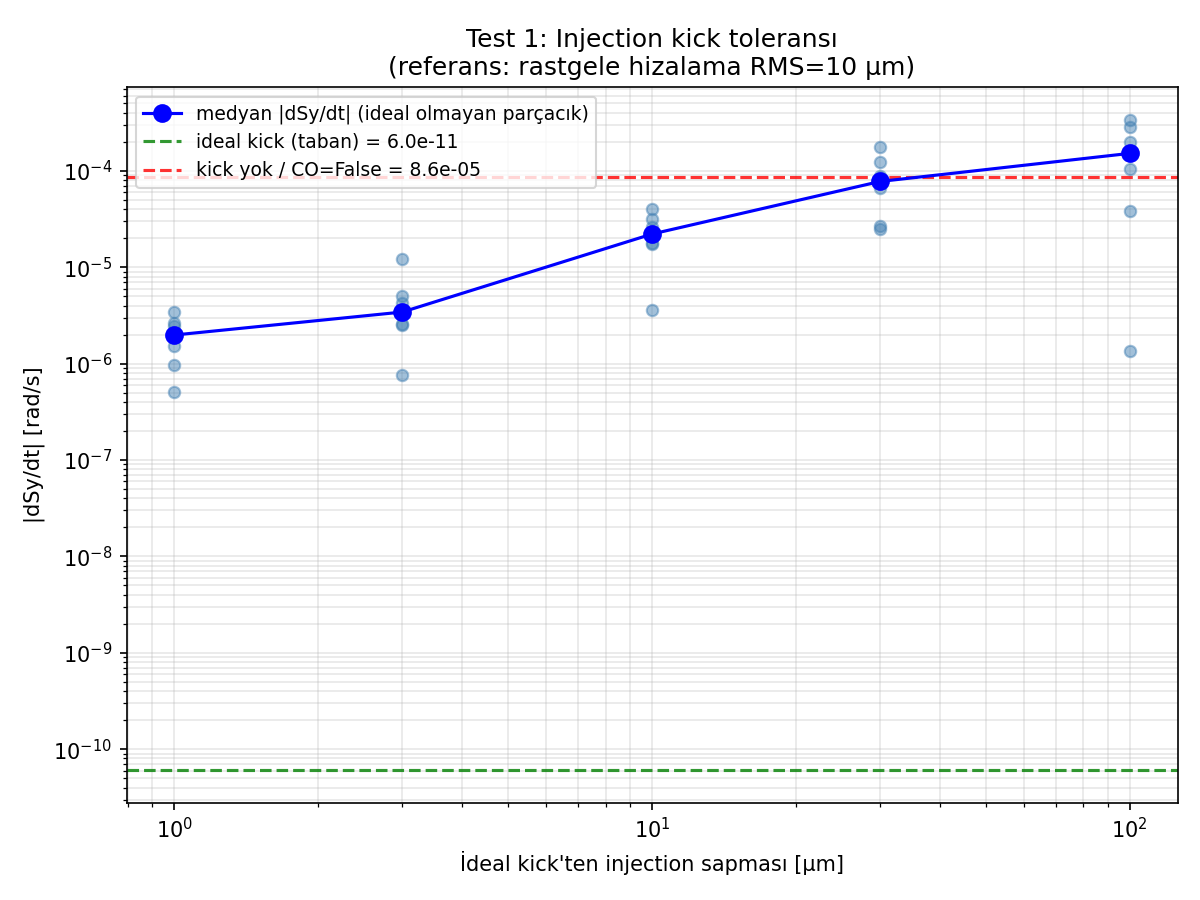
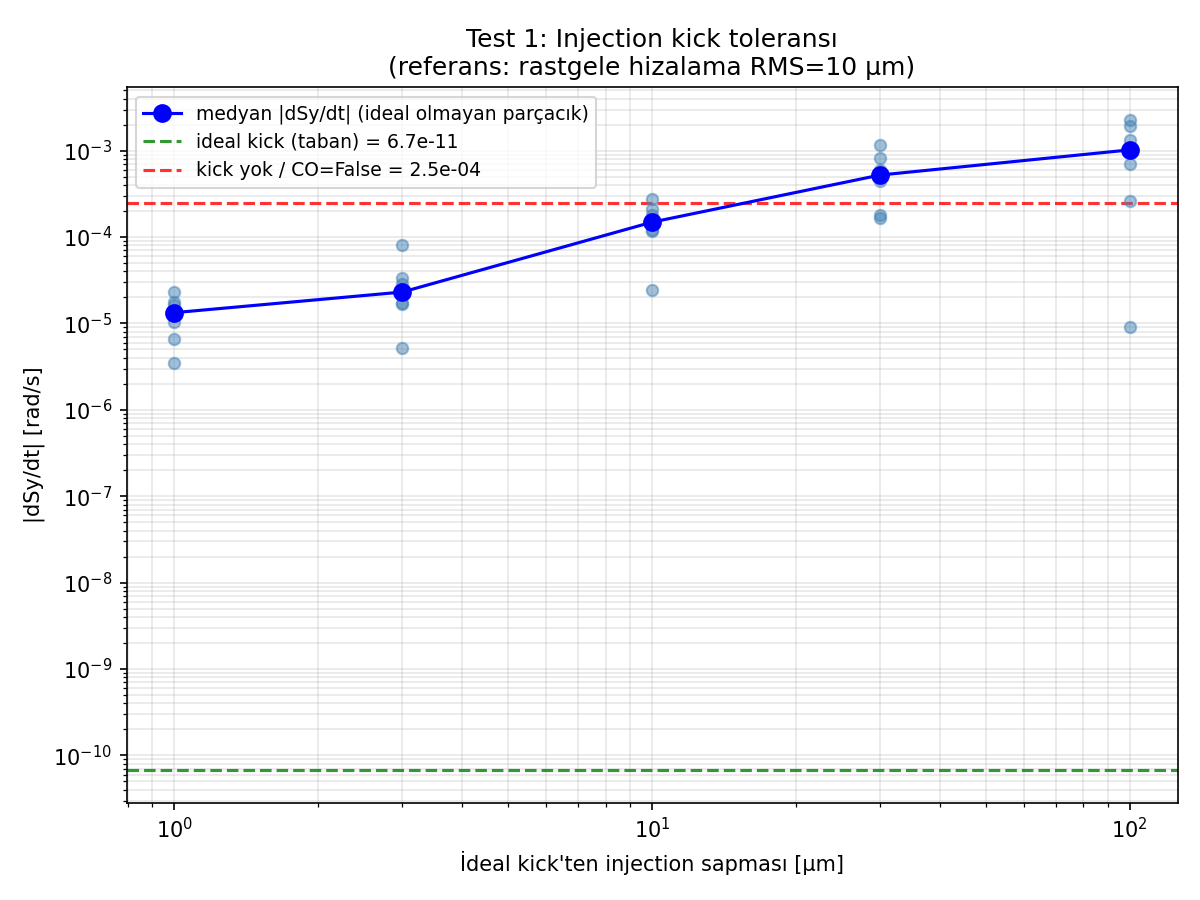
test: Test 5 betimi (ideal olmayan parçacıkta iptal) + Test 1 üniform 0.2 grafiği
test_nonideal_cancellation.py: COD'den δy sapan parçacık için (CW normal) −
(CCW flip) farkı betatron kirlenmesini de iptal ediyor mu test eder (henüz
koşulmadı, arka plan yeniden-koşmalar bitince koşulacak).

test_kick_correction.png: üniform 0.2 lattice ile yeniden üretildi.

https://claude.ai/code/session_01Jx2uDe7AgLmoFys37rEJtg

diff --git a/test_nonideal_cancellation.py b/test_nonideal_cancellation.py
@@ -1,0 +1,201 @@
+#!/usr/bin/env python3
+"""test_nonideal_cancellation.py — Test 5: İdeal olmayan parçacık için
+CW/CCW+flip iptali hâlâ çalışıyor mu?
+
+Soru:
+  (CW normal) − (CCW flip) farkı, parçacık kapalı yörünge ÜZERİNDEYKEN sahte
+  EDM'yi 1e-16'ya iptal ediyordu. Peki parçacık COD'nin üzerinde DEĞİLSE
+  (injection hatası δy → betatron salınımı, tek tek sahte EDM ~1e-5..1e-6)
+  bu fark hâlâ iptal ediyor mu, yoksa betatron kirlenmesi farkta kalıyor mu?
+
+  Bu, Omarov'un 1e-9 tabanının "mükemmel oturtma" gerektirip gerektirmediğini
+  ve yöntemin gerçekçi parçacıkta ne kadar sağlam olduğunu söyler.
+
+Fizik:
+  (CW normal) ve (CCW flip) her fiziksel noktada AYNI kick'i görür → kapalı
+  yörünge konumu aynı, dinamik birbirinin aynası. Eğer betatron-kaynaklı sahte
+  EDM de bu simetri altında AYNI işaretliyse, fark onu da iptal eder (yöntem
+  sağlam). Zıt işaretliyse fark onu iki katına çıkarır (yöntem oturtmaya bağlı).
+
+Yöntem (üniform 0.2 lattice):
+  1. CW normal ve CCW flip için kapalı yörünge bulunur (konumları çakışır).
+  2. δy ∈ {0, 0.5, 1, 2, 5, 10} μm: her iki beam KENDİ COD'sinden δy kadar
+     sapacak şekilde fırlatılır (aynı betatron genliği).
+  3. Tek tek sahte EDM'ler ve FARK ölçülür.
+  4. Fark δy ile büyüyor mu (iptal bozuluyor) yoksa küçük mü kalıyor (sağlam)?
+
+Çıktı:
+  test_nonideal_cancellation.png
+  Terminal tablo
+"""
+
+import json
+import os
+import sys
+import time
+
+import matplotlib
+matplotlib.use("Agg")
+import matplotlib.pyplot as plt
+import multiprocessing as mp
+import numpy as np
+
+os.chdir(os.path.dirname(os.path.abspath(__file__)))
+sys.path.insert(0, os.path.dirname(os.path.abspath(__file__)))
+
+# ── Parametreler ─────────────────────────────────────────────────────────────
+REF_SEED     = 7
+A_MISALIGN   = 1e-5
+T2           = 5e-4
+CO_TURNS     = 24
+CO_ITER      = 2
+RETURN_STEPS = 3000
+DELTA_UM     = [0.0, 0.5, 1.0, 2.0, 5.0, 10.0]   # COD'den injection sapması [μm]
+
+
+def _suppress_stdout():
+    fd = os.dup(1); null = os.open(os.devnull, os.O_WRONLY)
+    os.dup2(null, 1); os.close(null); return fd
+
+
+def _restore_stdout(fd):
+    os.dup2(fd, 1); os.close(fd)
+
+
+def _worker(task):
+    """Verilen yön/flip/fırlatma için sahte EDM ölç (CO ARAMAZ — sabit launch).
+
+    Görev: (label, direction, flip, yv, ypv, dy_list, t2, rsteps)
+    Dönüş: (label, slope)
+    """
+    label, direction, flip, yv, ypv, dy_list, t2, rsteps = task
+
+    import os, sys, json, numpy as np
+    os.chdir(os.path.dirname(os.path.abspath(__file__)))
+    sys.path.insert(0, os.path.dirname(os.path.abspath(__file__)))
+    from false_edm_mode_scan import setup_fields, _make_state
+    from integrator import integrate_particle
+
+    with open("params.json") as fh:
+        config = json.load(fh)
+    fields, _, beta0, R0, p_mag, _ = setup_fields(config)
+    if flip:
+        fields.quadG1 = -fields.quadG1
+        fields.quadG0 = -fields.quadG0
+    dt = float(config.get("dt", 1e-11))
+    dy = np.asarray(dy_list, dtype=float)
+
+    y_launch = _make_state([0.0, float(yv), 0.0, float(ypv)],
+                           p_mag, float(direction), [0.0, 0.0, float(direction)])
+    saved = _suppress_stdout()
+    try:
+        fields.poincare_quad_index = 0.0
+        _, poin, poin_t = integrate_particle(
+            y_launch, 0.0, t2, dt, fields=fields, return_steps=rsteps, quad_dy=dy)
+    finally:
+        _restore_stdout(saved)
+    slope = float(np.polyfit(np.asarray(poin_t, float),
+                             np.asarray(poin[:, 7], float), 1)[0])
+    return label, slope
+
+
+def _find_co(direction, flip, dy_ref, config):
+    """Verilen yön/flip için kapalı yörünge fırlatma noktası."""
+    from false_edm_mode_scan import setup_fields, find_closed_orbit, C
+    fields, _, beta0, R0, p_mag, _ = setup_fields(config)
+    if flip:
+        fields.quadG1 = -fields.quadG1
+        fields.quadG0 = -fields.quadG0
+    dt    = float(config.get("dt", 1e-11))
+    circ  = (2*np.pi*R0 + 4*fields.nFODO*fields.driftLen
+             + 2*fields.nFODO*fields.quadLen)
+    T_rev = circ / (beta0 * C)
+    saved = _suppress_stdout()
+    try:
+        v_co, _ = find_closed_orbit(fields, p_mag, float(direction), dy_ref, dt,
+                                     T_rev, n_turns=CO_TURNS, n_iter=CO_ITER)
+    finally:
+        _restore_stdout(saved)
+    return float(v_co[1]), float(v_co[3])
+
+
+def main():
+    t0 = time.time()
+    with open("params.json") as fh:
+        config = json.load(fh)
+    from false_edm_mode_scan import setup_fields
+    fields, *_ = setup_fields(config)
+    n_q = 2 * int(fields.nFODO)
+    direction = fields.direction
+
+    rng = np.random.default_rng(REF_SEED)
+    dy_ref = rng.standard_normal(n_q) * A_MISALIGN
+
+    print(f"Lattice: üniform {fields.quadG1} T/m")
+    print("CW normal ve CCW flip kapalı yörüngeleri bulunuyor...")
+    yc_cwn,  ypc_cwn  = _find_co(direction,  False, dy_ref, config)
+    yc_ccwf, ypc_ccwf = _find_co(-direction, True,  dy_ref, config)
+    print(f"  CW normal : y_co={yc_cwn*1e6:+.3f} μm, y'={ypc_cwn*1e6:+.3f} μrad")
+    print(f"  CCW flip  : y_co={yc_ccwf*1e6:+.3f} μm, y'={ypc_ccwf*1e6:+.3f} μrad")
+
+    # Görevler: her δy için her iki beam, KENDİ COD'sinden δy sapma
+    tasks = []
+    for d_um in DELTA_UM:
+        d = d_um * 1e-6
+        tasks.append((f"cwn_{d_um}",  direction,  False,
+                      yc_cwn + d,  ypc_cwn,  dy_ref.tolist(), T2, RETURN_STEPS))
+        tasks.append((f"ccwf_{d_um}", -direction, True,
+                      yc_ccwf + d, ypc_ccwf, dy_ref.tolist(), T2, RETURN_STEPS))
+
+    nw = min(mp.cpu_count(), len(tasks))
+    print(f"\n{len(tasks)} simülasyon ({nw} işçi)...")
+    ctx = mp.get_context("spawn")
+    with ctx.Pool(processes=nw) as pool:
+        res = dict(pool.map(_worker, tasks))
+
+    # Sonuçlar
+    print(f"\n{'─'*78}")
+    print("İdeal olmayan parçacık: COD'den δy sapma → tek tek sahte EDM ve FARK")
+    print(f"{'─'*78}")
+    hdr = (f"{'δy [μm]':>9}  {'CW normal':>14}  {'CCW flip':>14}  "
+           f"{'FARK (CW−CCWf)':>16}  {'iptal':>9}")
+    print(hdr); print('─'*len(hdr))
+    cwn_arr, ccwf_arr, diff_arr = [], [], []
+    for d_um in DELTA_UM:
+        scwn  = res[f"cwn_{d_um}"]
+        sccwf = res[f"ccwf_{d_um}"]
+        diff  = scwn - sccwf
+        ratio = abs(scwn / diff) if diff != 0 else float('inf')
+        cwn_arr.append(scwn); ccwf_arr.append(sccwf); diff_arr.append(diff)
+        print(f"{d_um:>9.1f}  {scwn:>14.3e}  {sccwf:>14.3e}  {diff:>16.3e}  "
+              f"{ratio:>8.0f}×")
+
+    elapsed = time.time() - t0
+    print(f"\nToplam süre: {elapsed:.1f} s")
+    print("\nYORUM:")
+    print("  FARK küçük kalıyorsa → simetri betatron'u da iptal eder (yöntem sağlam).")
+    print("  FARK tek tek değerlerle birlikte büyüyorsa → iptal oturtmaya bağlı.")
+
+    # Figür
+    fig, ax = plt.subplots(figsize=(8.5, 6))
+    dd = np.array(DELTA_UM)
+    ax.semilogy(dd, np.abs(cwn_arr),  'o-', color='tab:blue',
+                label='CW normal (tek tek)', markersize=7)
+    ax.semilogy(dd, np.abs(ccwf_arr), 's-', color='tab:orange',
+                label='CCW flip (tek tek)', markersize=7)
+    ax.semilogy(dd, np.abs(diff_arr), 'D-', color='tab:green', linewidth=2,
+                label='FARK (CW − CCW flip)', markersize=8)
+    ax.set_xlabel("COD'den injection sapması δy [μm]")
+    ax.set_ylabel("|dSy/dt| [rad/s]")
+    ax.set_title("Test 5: İdeal olmayan parçacıkta CW/CCW+flip iptali\n"
+                 "(fark küçük kalırsa simetri betatron'u da temizler)")
+    ax.legend(fontsize=10)
+    ax.grid(True, which='both', alpha=0.3)
+    plt.tight_layout()
+    out = "test_nonideal_cancellation.png"
+    plt.savefig(out, dpi=150)
+    print(f"Figür kaydedildi: {out}")
+
+
+if __name__ == "__main__":
+    main()